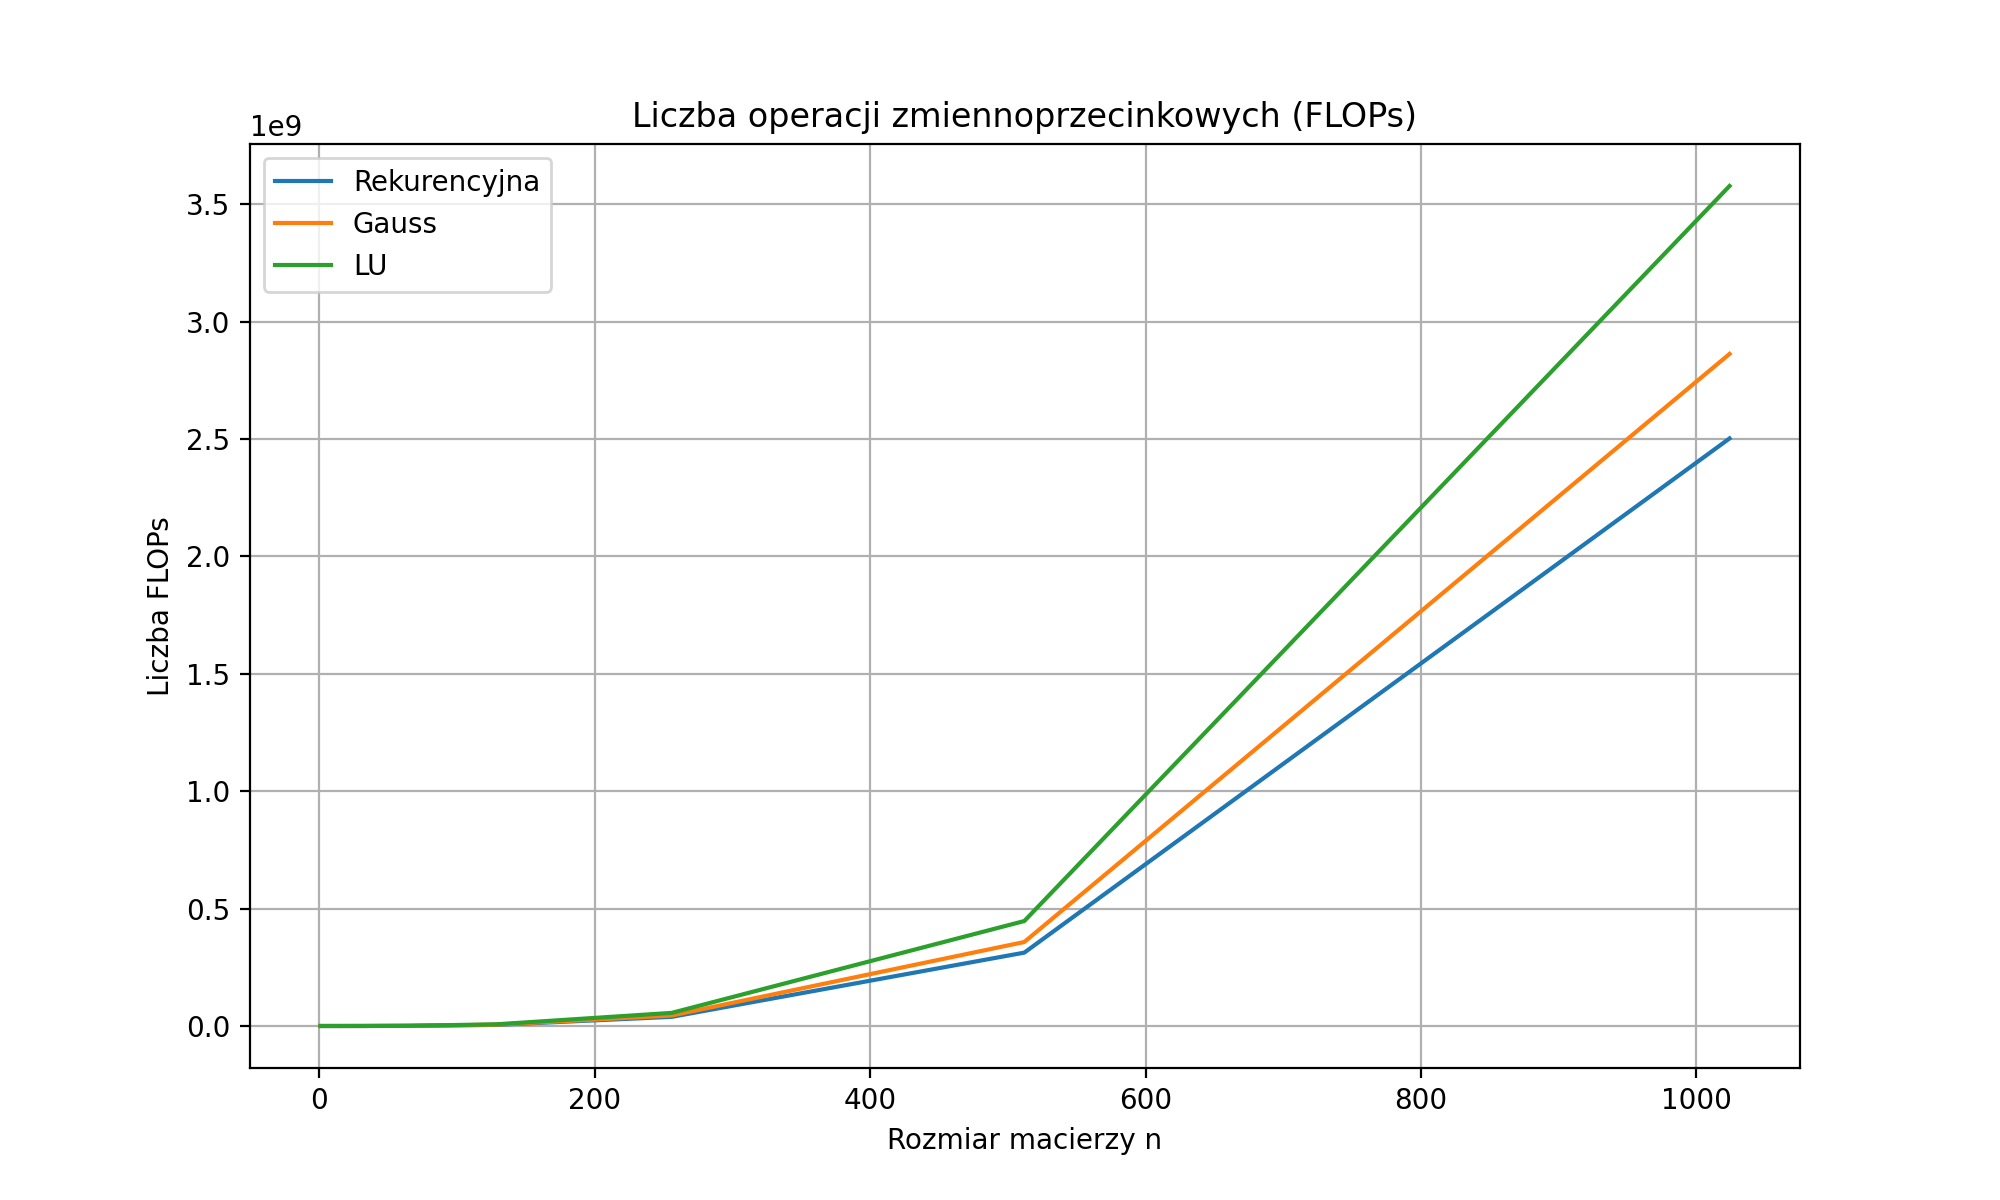
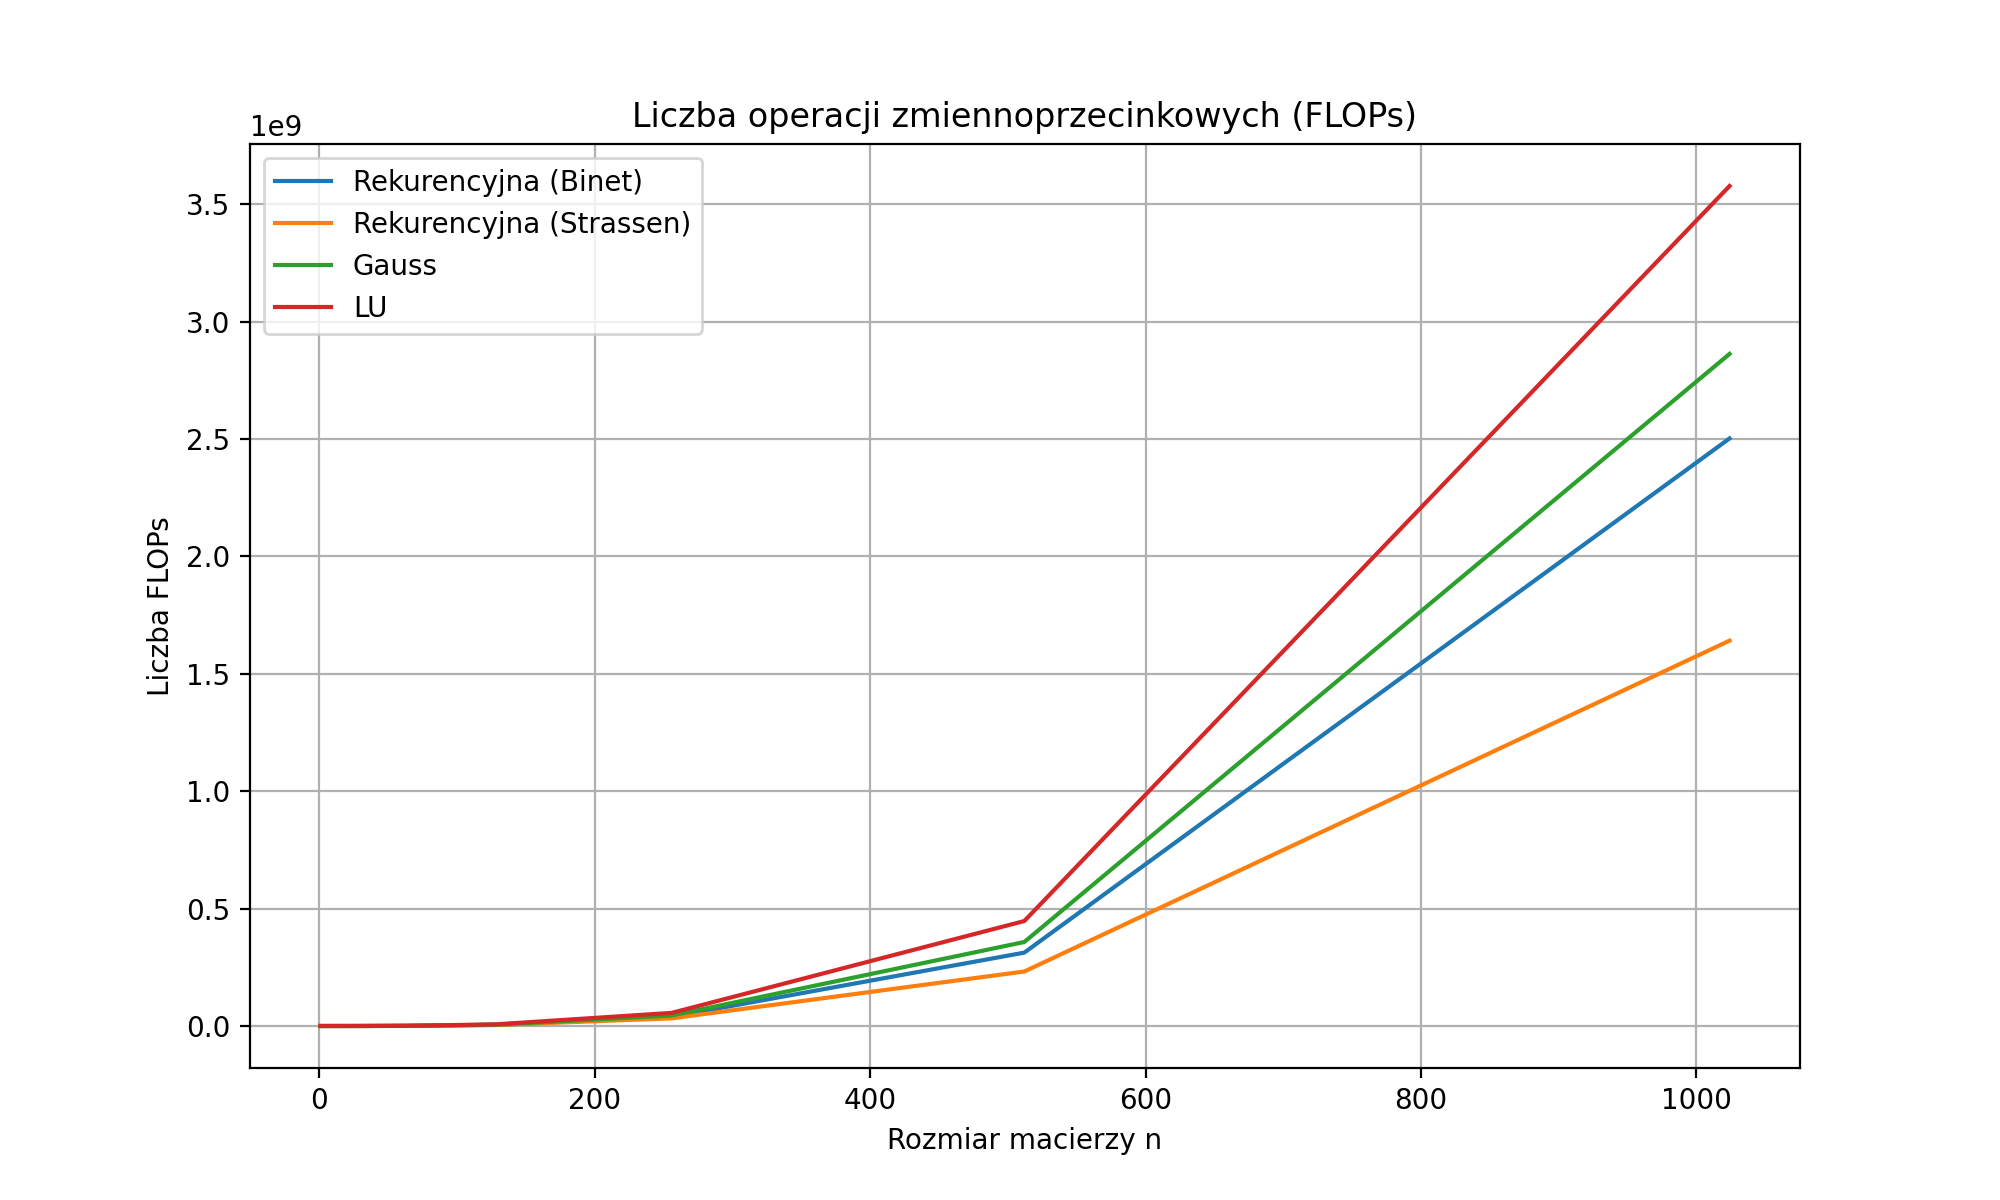
Added Strassen benchmarks

diff --git a/lab2/main.cpp b/lab2/main.cpp
@@ -294,8 +294,11 @@ Matrix multiplyStrassen(const Matrix& A, const Matrix& B, OpCounter& counter, in
     return C;
 }
 
-// 2. REKURENCYJNE ODWRACANIE MACIERZY
-Matrix invertMatrixRecursive(const Matrix& m, OpCounter& counter) {
+// Typ wskaźnika funkcji dla algorytmu mnożenia
+typedef Matrix (*MultiplyFunc)(const Matrix&, const Matrix&, OpCounter&, int);
+
+// 2. REKURENCYJNE ODWRACANIE MACIERZY Z WYBOREM ALGORYTMU MNOŻENIA
+Matrix invertMatrixRecursive(const Matrix& m, OpCounter& counter, MultiplyFunc multiplyFunc, int threshold = 32) {
     int n = m.n;
     
     if (n == 1) {
@@ -315,18 +318,18 @@ Matrix invertMatrixRecursive(const Matrix& m, OpCounter& counter) {
     copySubmatrix(m, C, half, 0, 0, 0, remainder);
     copySubmatrix(m, D, half, half, 0, 0, remainder);
     
-    Matrix A_inv = invertMatrixRecursive(A, counter);
-    Matrix CA_inv = multiplyMatrices(C, A_inv, counter);
-    Matrix CA_invB = multiplyMatrices(CA_inv, B, counter);
+    Matrix A_inv = invertMatrixRecursive(A, counter, multiplyFunc, threshold);
+    Matrix CA_inv = multiplyFunc(C, A_inv, counter, threshold);
+    Matrix CA_invB = multiplyFunc(CA_inv, B, counter, threshold);
     Matrix S = subtractMatrices(D, CA_invB, counter);
-    Matrix S_inv = invertMatrixRecursive(S, counter);
+    Matrix S_inv = invertMatrixRecursive(S, counter, multiplyFunc, threshold);
     
     Matrix result(n);
-    Matrix A_invB = multiplyMatrices(A_inv, B, counter);
-    Matrix S_invC = multiplyMatrices(S_inv, C, counter);
-    Matrix A_invB_S_inv = multiplyMatrices(A_invB, S_inv, counter);
-    Matrix S_invC_A_inv = multiplyMatrices(S_invC, A_inv, counter);
-    Matrix temp = multiplyMatrices(A_invB_S_inv, S_invC_A_inv, counter);
+    Matrix A_invB = multiplyFunc(A_inv, B, counter, threshold);
+    Matrix S_invC = multiplyFunc(S_inv, C, counter, threshold);
+    Matrix A_invB_S_inv = multiplyFunc(A_invB, S_inv, counter, threshold);
+    Matrix S_invC_A_inv = multiplyFunc(S_invC, A_inv, counter, threshold);
+    Matrix temp = multiplyFunc(A_invB_S_inv, S_invC_A_inv, counter, threshold);
     
     for (int i = 0; i < half; i++) {
         for (int j = 0; j < half; j++) {
@@ -512,7 +515,7 @@ void testInversion(int n) {
     if (n <= 5) m.print("Macierz wejściowa");
     
     OpCounter counter;
-    Matrix inv = invertMatrixRecursive(m, counter);
+    Matrix inv = invertMatrixRecursive(m, counter, multiplyRecursive);
     
     if (n <= 5) inv.print("Macierz odwrotna");
     counter.print("Odwracanie macierzy");
@@ -655,7 +658,7 @@ void plotAllOperations(const vector<int>& sizes) {
         // Odwracanie
         OpCounter counter2;
         try {
-            invertMatrixRecursive(A, counter2);
+            invertMatrixRecursive(A, counter2, multiplyRecursive);
             invert_ops.push_back(counter2.total());
         } catch (...) {
             invert_ops.push_back(0);
@@ -774,18 +777,21 @@ double getMemoryUsageMB() {
 
 /*
     Benchmark:
-    - Recursive inversion
+    - Recursive inversion with Binet (classical multiplication)
+    - Recursive inversion with Strassen multiplication
     - Gauss elimination
     - LU factorization + determinant
 */
 void benchmarkAllSizes(int maxN = 1024) {
     cout << "\n============================================\n";
     cout << "   BENCHMARK ODWRACANIA MACIERZY (1.." << maxN << ")\n";
+    cout << "   Z PORÓWNANIEM BINET vs STRASSEN\n";
     cout << "============================================\n\n";
 
     ofstream file("inversion_benchmark.csv");
     file << "n,"
-         << "rec_time_ms,rec_flops,rec_mem_MB,rec_flops_per_sec,"
+         << "binet_time_ms,binet_flops,binet_mem_MB,binet_flops_per_sec,"
+         << "strassen_time_ms,strassen_flops,strassen_mem_MB,strassen_flops_per_sec,"
          << "gauss_time_ms,gauss_flops,gauss_mem_MB,gauss_flops_per_sec,"
          << "lu_time_ms,lu_flops,lu_mem_MB,lu_flops_per_sec\n";
 
@@ -800,80 +806,94 @@ void benchmarkAllSizes(int maxN = 1024) {
         for (int i = 0; i < n; i++) I.data[i][i] = 1.0;
 
         // ============================================================
-        // 1. Recursive inversion
+        // 1. Recursive inversion with BINET (classical multiplication)
         // ============================================================
         OpCounter c1;
         auto m1_before = getMemoryUsageMB();
         auto t1_start = chrono::high_resolution_clock::now();
-        Matrix R = invertMatrixRecursive(A, c1);
+        Matrix R_binet = invertMatrixRecursive(A, c1, multiplyRecursive);
         auto t1_end = chrono::high_resolution_clock::now();
         auto m1_after = getMemoryUsageMB();
 
-        double rec_time = chrono::duration_cast<chrono::microseconds>(t1_end - t1_start).count() / 1000.0;
-        double rec_flops = c1.total();
-        double rec_flops_per_sec = rec_flops / (rec_time / 1000.0);
-        double rec_mem = max(m1_before, m1_after);
+        double binet_time = chrono::duration_cast<chrono::microseconds>(t1_end - t1_start).count() / 1000.0;
+        double binet_flops = c1.total();
+        double binet_flops_per_sec = binet_flops / (binet_time / 1000.0);
+        double binet_mem = max(m1_before, m1_after);
 
         // ============================================================
-        // 2. Gauss elimination inversion: solve A X = I
+        // 2. Recursive inversion with STRASSEN multiplication
+        // ============================================================
+        OpCounter c2;
+        auto m2_before = getMemoryUsageMB();
+        auto t2_start = chrono::high_resolution_clock::now();
+        Matrix R_strassen = invertMatrixRecursive(A, c2, multiplyStrassen);
+        auto t2_end = chrono::high_resolution_clock::now();
+        auto m2_after = getMemoryUsageMB();
+
+        double strassen_time = chrono::duration_cast<chrono::microseconds>(t2_end - t2_start).count() / 1000.0;
+        double strassen_flops = c2.total();
+        double strassen_flops_per_sec = strassen_flops / (strassen_time / 1000.0);
+        double strassen_mem = max(m2_before, m2_after);
+
+        // ============================================================
+        // 3. Gauss elimination inversion: solve A X = I
         // ============================================================
         Matrix A2 = A;
         Matrix I2 = I;
 
-        OpCounter c2;
-        auto m2_before = getMemoryUsageMB();
-        auto t2_start = chrono::high_resolution_clock::now();
-        Matrix X = solveGaussRecursive(A2, I2, c2);
-        auto t2_end = chrono::high_resolution_clock::now();
-        auto m2_after = getMemoryUsageMB();
-
-        double gauss_time = chrono::duration_cast<chrono::microseconds>(t2_end - t2_start).count() / 1000.0;
-        double gauss_flops = c2.total();
-        double gauss_flops_per_sec = gauss_flops / (gauss_time / 1000.0);
-        double gauss_mem = max(m2_before, m2_after);
-
-        // ============================================================
-        // 3. LU factorization + determinant + inversion
-        // ============================================================
-        Matrix A3 = A;
         OpCounter c3;
         auto m3_before = getMemoryUsageMB();
         auto t3_start = chrono::high_resolution_clock::now();
-
-        // LU decomposition in-place
-        luDecompositionRecursive(A3, 0, n - 1, c3);
-
-        // Determinant
-        double det = computeDeterminantFromLU(A3, c3);
-
-        // Solve A X = I using forward/back substitution
-        // (We can re-use solveGaussRecursive by feeding LU)
-        Matrix I3 = I;
-        Matrix X3 = solveGaussRecursive(A3, I3, c3);
-
+        Matrix X = solveGaussRecursive(A2, I2, c3);
         auto t3_end = chrono::high_resolution_clock::now();
         auto m3_after = getMemoryUsageMB();
 
-        double lu_time = chrono::duration_cast<chrono::microseconds>(t3_end - t3_start).count() / 1000.0;
-        double lu_flops = c3.total();
+        double gauss_time = chrono::duration_cast<chrono::microseconds>(t3_end - t3_start).count() / 1000.0;
+        double gauss_flops = c3.total();
+        double gauss_flops_per_sec = gauss_flops / (gauss_time / 1000.0);
+        double gauss_mem = max(m3_before, m3_after);
+
+        // ============================================================
+        // 4. LU factorization + determinant + inversion
+        // ============================================================
+        Matrix A3 = A;
+        OpCounter c4;
+        auto m4_before = getMemoryUsageMB();
+        auto t4_start = chrono::high_resolution_clock::now();
+
+        // LU decomposition in-place
+        luDecompositionRecursive(A3, 0, n - 1, c4);
+
+        // Determinant
+        double det = computeDeterminantFromLU(A3, c4);
+
+        // Solve A X = I using forward/back substitution
+        Matrix I3 = I;
+        Matrix X3 = solveGaussRecursive(A3, I3, c4);
+
+        auto t4_end = chrono::high_resolution_clock::now();
+        auto m4_after = getMemoryUsageMB();
+
+        double lu_time = chrono::duration_cast<chrono::microseconds>(t4_end - t4_start).count() / 1000.0;
+        double lu_flops = c4.total();
         double lu_flops_per_sec = lu_flops / (lu_time / 1000.0);
-        double lu_mem = max(m3_before, m3_after);
+        double lu_mem = max(m4_before, m4_after);
 
         // ============================================================
         // Write row to CSV
         // ============================================================
         file << n << ","
-             << rec_time << "," << rec_flops << "," << rec_mem << "," << rec_flops_per_sec << ","
+             << binet_time << "," << binet_flops << "," << binet_mem << "," << binet_flops_per_sec << ","
+             << strassen_time << "," << strassen_flops << "," << strassen_mem << "," << strassen_flops_per_sec << ","
              << gauss_time << "," << gauss_flops << "," << gauss_mem << "," << gauss_flops_per_sec << ","
              << lu_time << "," << lu_flops << "," << lu_mem << "," << lu_flops_per_sec
              << "\n";
 
-        // if (n % 50 == 0 || n == 1 || n == maxN) {
-            cout << "n=" << setw(4) << n
-                 << " | Rec: " << setw(8) << rec_time << " ms"
-                 << " | Gauss: " << setw(8) << gauss_time << " ms"
-                 << " | LU: " << setw(8) << lu_time << " ms" << endl;
-        // }
+        cout << "n=" << setw(4) << n
+             << " | Binet: " << setw(8) << binet_time << " ms"
+             << " | Strassen: " << setw(8) << strassen_time << " ms"
+             << " | Gauss: " << setw(8) << gauss_time << " ms"
+             << " | LU: " << setw(8) << lu_time << " ms" << endl;
     }
 
     file.close();
@@ -890,7 +910,7 @@ void showMenu() {
     cout << "4. Faktoryzacja LU i wyznacznik\n";
     cout << "5. Testy dla wszystkich operacji\n";
     cout << "6. Wykresy zależności operacji od rozmiaru macierzy\n";
-    cout << "7. Benchmark (1..1000)\n";
+    cout << "7. Benchmark (1..1024) - Binet vs Strassen\n";
     cout << "0. Wyjście\n";
     cout << "\nWybierz opcję: ";
 }

diff --git a/lab2/genplots.py b/lab2/genplots.py
@@ -8,19 +8,23 @@ def plot_inversion_benchmark(csv_file="inversion_benchmark.csv"):
     n = df["n"]
 
     # Data columns
-    rec_time = df["rec_time_ms"]
+    binet_time = df["binet_time_ms"]
+    strassen_time = df["strassen_time_ms"]
     gauss_time = df["gauss_time_ms"]
     lu_time = df["lu_time_ms"]
 
-    rec_flops = df["rec_flops"]
+    binet_flops = df["binet_flops"]
+    strassen_flops = df["strassen_flops"]
     gauss_flops = df["gauss_flops"]
     lu_flops = df["lu_flops"]
 
-    rec_mem = df["rec_mem_MB"]
+    binet_mem = df["binet_mem_MB"]
+    strassen_mem = df["strassen_mem_MB"]
     gauss_mem = df["gauss_mem_MB"]
     lu_mem = df["lu_mem_MB"]
 
-    rec_fps = df["rec_flops_per_sec"]
+    binet_fps = df["binet_flops_per_sec"]
+    strassen_fps = df["strassen_flops_per_sec"]
     gauss_fps = df["gauss_flops_per_sec"]
     lu_fps = df["lu_flops_per_sec"]
 
@@ -28,7 +32,8 @@ def plot_inversion_benchmark(csv_file="inversion_benchmark.csv"):
     # 1. Time plot
     # -------------------------------------------------------------------------
     plt.figure(figsize=(10, 6))
-    plt.plot(n, rec_time, label="Rekurencyjna")
+    plt.plot(n, binet_time, label="Rekurencyjna (Binet)")
+    plt.plot(n, strassen_time, label="Rekurencyjna (Strassen)")
     plt.plot(n, gauss_time, label="Gauss")
     plt.plot(n, lu_time, label="LU")
     plt.xlabel("Rozmiar macierzy n")
@@ -43,7 +48,8 @@ def plot_inversion_benchmark(csv_file="inversion_benchmark.csv"):
     # 2. FLOPs plot
     # -------------------------------------------------------------------------
     plt.figure(figsize=(10, 6))
-    plt.plot(n, rec_flops, label="Rekurencyjna")
+    plt.plot(n, binet_flops, label="Rekurencyjna (Binet)")
+    plt.plot(n, strassen_flops, label="Rekurencyjna (Strassen)")
     plt.plot(n, gauss_flops, label="Gauss")
     plt.plot(n, lu_flops, label="LU")
     plt.xlabel("Rozmiar macierzy n")
@@ -58,7 +64,8 @@ def plot_inversion_benchmark(csv_file="inversion_benchmark.csv"):
     # 3. Memory usage plot
     # -------------------------------------------------------------------------
     plt.figure(figsize=(10, 6))
-    plt.plot(n, rec_mem, label="Rekurencyjna")
+    plt.plot(n, binet_mem, label="Rekurencyjna (Binet)")
+    plt.plot(n, strassen_mem, label="Rekurencyjna (Strassen)")
     plt.plot(n, gauss_mem, label="Gauss")
     plt.plot(n, lu_mem, label="LU")
     plt.xlabel("Rozmiar macierzy n")
@@ -73,7 +80,8 @@ def plot_inversion_benchmark(csv_file="inversion_benchmark.csv"):
     # 4. FLOPs per second
     # -------------------------------------------------------------------------
     plt.figure(figsize=(10, 6))
-    plt.plot(n, rec_fps, label="Rekurencyjna")
+    plt.plot(n, binet_fps, label="Rekurencyjna (Binet)")
+    plt.plot(n, strassen_fps, label="Rekurencyjna (Strassen)")
     plt.plot(n, gauss_fps, label="Gauss")
     plt.plot(n, lu_fps, label="LU")
     plt.xlabel("Rozmiar macierzy n")
